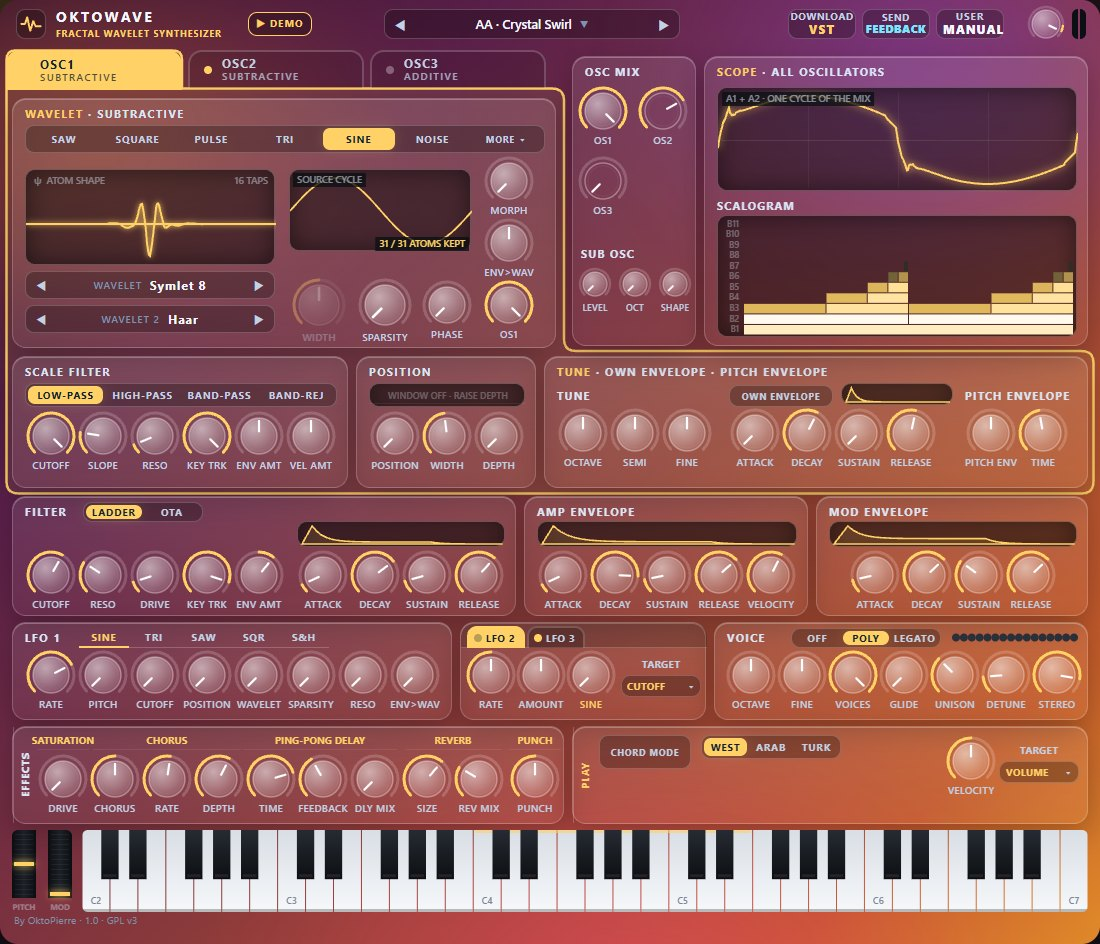
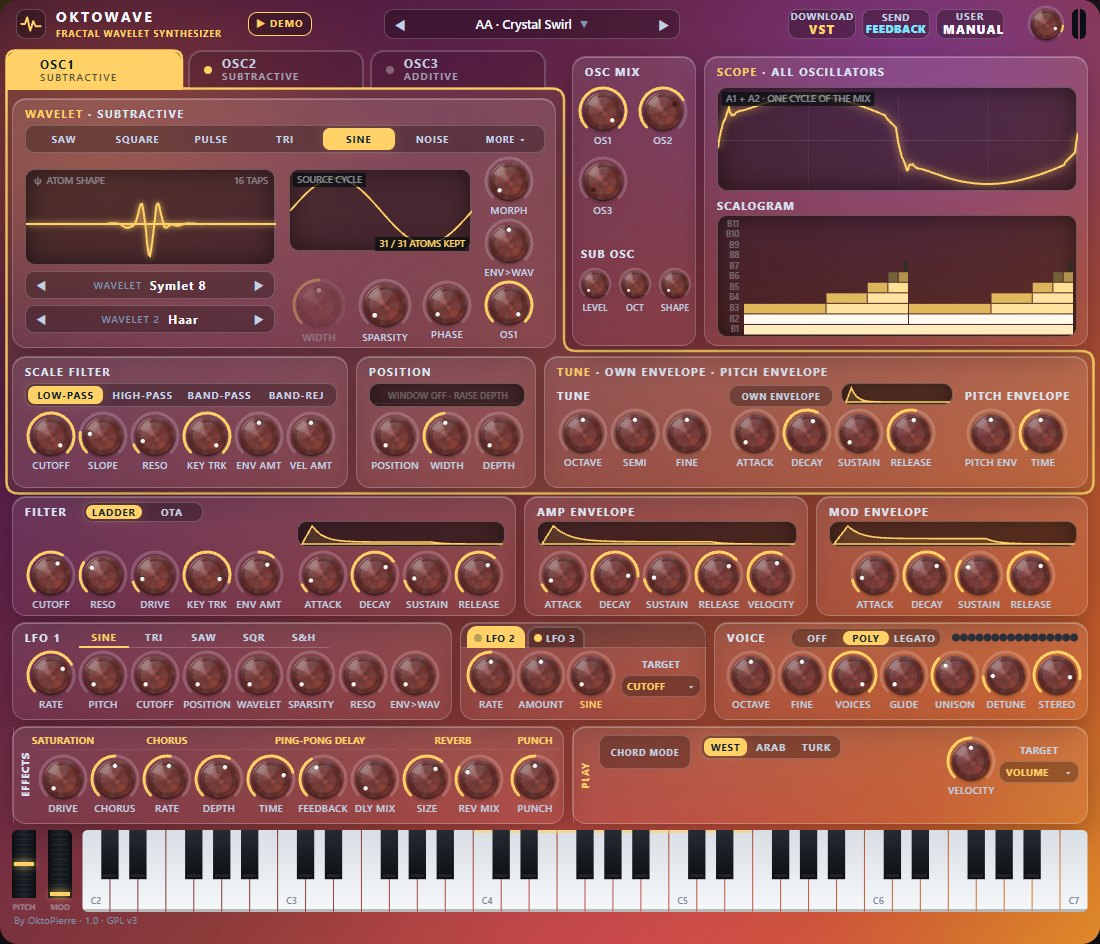
OktoWave 1.0.18: the copper knob in the web app too (the author's request), test checks that followed the author's Warm Pad, release notes: the Checked line
- Web app: web/js/ui.js knob() draws the copper knob of the plug-in (an SVG image of web/img/bouton_cuivre_rose.png under two soft shadows, the white dot at the value, the ring and value arc unchanged); synth.css no longer colours the old knob's parts; the manual's panel picture.
- Tests: filter.js and supermod.js start from A · Warm Pad with the FILTER open (the author's OTA filter at 1395 Hz softened what they measure); vst2_smoke: the G7 chord is 1.25 times the single note's level (1.41 with the new Warm Pad); test_web: the HIGH_CPU sound the author moved to SuperModulation, the plug-in's OS1 OS2 OS3 knobs are levels the web app shows with its own knobs.
- RELEASE_HISTORY: the copper knob in both, the Checked line; README; CLAUDE.md 3.3zb.

diff --git a/web/js/ui.js b/web/js/ui.js
@@ -192,15 +192,27 @@ class SynthUI {
     const s = svg('svg', { width: w.w, height: w.h }, box);
     const id = 'kg' + i + w.type;
     const defs = svg('defs', {}, s);
-    const grad = svg('radialGradient', { id, cx: '35%', cy: '30%', r: '75%' }, defs);
-    svg('stop', { offset: '0%', 'stop-color': '#3a414c' }, grad);
-    svg('stop', { offset: '100%', 'stop-color': '#161a1f' }, grad);
-    const thin = small || tiny, A0 = -0.75 * Math.PI, A1 = 0.75 * Math.PI, ar = r + (thin ? 2 : 4);
-    svg('path', { d: arcPath(cx, cy, ar, A0, A1), stroke: '#2a303a', 'stroke-width': thin ? 2.5 : 3, fill: 'none', 'stroke-linecap': 'round' }, s);
-    const val = svg('path', { d: '', stroke: 'var(--accent)', 'stroke-width': thin ? 2.5 : 3, fill: 'none', 'stroke-linecap': 'round' }, s);
-    svg('circle', { cx, cy, r: r - 1, fill: `url(#${id})`, stroke: '#0b0d10', 'stroke-width': 1.5 }, s);
-    svg('circle', { cx, cy, r: r - 4, fill: 'none', stroke: 'rgba(255,255,255,0.05)', 'stroke-width': 1 }, s);
-    const ptr = svg('line', { x1: cx, y1: cy - r * 0.25, x2: cx, y2: cy - r + 4, stroke: '#eef2f7', 'stroke-width': big ? 2.6 : tiny ? 2 : 2.2, 'stroke-linecap': 'round' }, s);
+    // version 1.0.18 (the owner's choice, ClaudeProjects/maquettes_boutons_cuivre, "couleur 1, cuivre rosé"; the plug-in draws the same knob, vst/src/editor.cpp): the knob is the
+    // picture img/bouton_cuivre_rose.png (knurled turned metal, a disc of radius 74.3 px in 156 px) with two soft shadows under it, lit from a fixed side (the picture does not
+    // turn); the white dot (0.12 r, at 0.696 r from the centre) shows the value, with a small shadow above it. The ring and the value arc are those of before.
+    const thin = small || tiny, A0 = -0.75 * Math.PI, A1 = 0.75 * Math.PI, ar = r + (thin ? 2 : 4), sw = thin ? 2.5 : 3;
+    const f = svg('filter', { id: id + 's', x: '-60%', y: '-60%', width: '220%', height: '220%', 'color-interpolation-filters': 'sRGB' }, defs);
+    [[2.2, 2.0, 0.35, 'b'], [0.8, 0.7, 0.55, 'a']].forEach(([dy, blur, op, k]) => {   // [vertical offset, blur, opacity]: a soft shadow and a tight contact shadow
+      svg('feGaussianBlur', { in: 'SourceAlpha', stdDeviation: blur, result: 'g' + k }, f);
+      svg('feOffset', { in: 'g' + k, dx: 0, dy, result: 'o' + k }, f);
+      svg('feFuncA', { type: 'linear', slope: op }, svg('feComponentTransfer', { in: 'o' + k, result: 's' + k }, f));
+    });
+    const fm = svg('feMerge', {}, f);
+    for (const m of ['sb', 'sa', 'SourceGraphic']) svg('feMergeNode', { in: m }, fm);
+    svg('path', { d: arcPath(cx, cy, ar, A0, A1), style: `stroke: rgba(255,255,255,0.18); stroke-width: ${sw}; fill: none; stroke-linecap: round` }, s);
+    const val = svg('path', { d: '', style: `stroke: var(--accent); stroke-width: ${sw}; fill: none; stroke-linecap: round` }, s);
+    const sz = r * 156 / 74.3;   // the picture is 2.0996 knob radii wide
+    svg('image', { href: 'img/bouton_cuivre_rose.png', x: cx - sz / 2, y: cy - sz / 2, width: sz, height: sz }, svg('g', { filter: `url(#${id}s)` }, s));
+    const dg = svg('radialGradient', { id: id + 'd', cx: '42%', cy: '38%', r: '62%' }, defs);
+    for (const [o, c] of [['0%', '#ffffff'], ['60%', '#f3f1f0'], ['100%', '#cfcac8']]) svg('stop', { offset: o, style: 'stop-color: ' + c }, dg);
+    const dotR = r * 0.12, dotD = r * 0.696;
+    const dotSh = svg('circle', { r: dotR * 1.1, style: 'fill: rgba(35,12,6,0.55); stroke: none' }, s);
+    const dot = svg('circle', { r: dotR, style: `fill: url(#${id}d); stroke: none` }, s);
     let label = null;
     if (!small) {
       label = el('div', 'label', box, { top: (big ? 48 : tiny ? 33 : 43) + 'px', fontSize: tiny ? '8.5px' : '' });
@@ -214,7 +226,9 @@ class SynthUI {
         const a = A0 + (A1 - A0) * n;
         const from = bip ? A0 + (A1 - A0) * this.C.toNorm(p, 0) : A0;
         val.setAttribute('d', arcPath(cx, cy, ar, Math.min(from, a), Math.max(from, a)));
-        ptr.setAttribute('transform', `rotate(${(a * 180 / Math.PI).toFixed(2)} ${cx} ${cy})`);
+        const dx = cx + dotD * Math.sin(a), dy = cy - dotD * Math.cos(a);
+        dot.setAttribute('cx', dx.toFixed(2)); dot.setAttribute('cy', dy.toFixed(2));
+        dotSh.setAttribute('cx', dx.toFixed(2)); dotSh.setAttribute('cy', (dy - dotR * 0.28).toFixed(2));
         if (label) {
           const showVal = widget.hover || widget.drag;
           // style 'value' (beta 0.6): the value is the label (a note value says more than "TIME")

diff --git a/web/css/synth.css b/web/css/synth.css
@@ -111,11 +111,6 @@ button { font-family: inherit; }
 .knob .label { position: absolute; left: -6px; right: -6px; text-align: center; font-size: 9.5px; font-weight: 600; letter-spacing: 0.06em;
   color: var(--dim); white-space: nowrap; overflow: hidden; }
 .knob.active .label, .knob:hover .label { color: var(--text); }
-.knob svg stop:first-child { stop-color: rgba(255,255,255,0.55); }
-.knob svg stop:last-child { stop-color: rgba(255,255,255,0.12); }
-.knob svg path:first-of-type { stroke: rgba(255,255,255,0.18); }
-.knob svg circle:first-of-type { stroke: rgba(255,255,255,0.35); }
-.knob svg line { stroke: #ffffff; }
 .knob .label.value { color: var(--accent); }
 .knob.disabled { opacity: 0.35; }
 .knobS .label { display: none; }

diff --git a/RELEASE_HISTORY.md b/RELEASE_HISTORY.md
@@ -6,14 +6,14 @@ the chord keyboard of his WaveChord work; their histories follow its own first r
 ## Okto Fractal Wavelet 1.0.18 — 2026-10-24 (shown as OktoWave 1.0)
 
 - **VINTAGE** (plug-in): one knob that ages the instrument like an analog polyphonic synthesizer of the 70s and 80s. Each voice is a little out of tune in its own way and pulled at each note, the pitch drifts slowly and wobbles (a wow), the tone gets darker and warmer, the filters and levels of the voices differ a little, and the oscillators start anywhere in their cycle. At 0 % (the default) the sound is exactly the one of before. **TYPE** chooses the kind of age: **FIX** (the fixed differences between the voices, nothing moves), **BOTH** (the default) or **DRIFT** (the moving drift only). Both are playing settings, like VELOCITY: they stay when you change preset, so every sound can be aged, and they are kept with your project.
-- **Copper knobs** (plug-in): every knob is now a turned-metal knob in rosy copper, with a soft shadow and a white dot, sharp at every window size.
+- **Copper knobs** (web app and plug-in): every knob is now a turned-metal knob in rosy copper, with a soft shadow and a white dot, sharp at every size.
 - **A tidier panel** (web app and plug-in): the levels of OSC MIX are named **OS1 OS2 OS3**, as the tabs OSC1 OSC2 OSC3; in the plug-in the card is titled **MIX** and **VINTAGE**. In the subtractive oscillator's card, WIDTH, SPARSITY, PHASE and the level are on one row and the SOURCE CYCLE picture is wider.
 - **The author's latest settings**: *A · Warm Pad* (OTA filter, a softer punch) and *AA · Crystal Swirl* (16 voices); TOP Sounds in his new order, and the synth now opens on *AA · Crystal Swirl*.
 - **MIDI in the web app**: when a keyboard does not play, the MIDI status now says what to do (open the page in Chrome or Edge rather than in an editor's built-in browser, allow MIDI devices in the site settings, or close the program that holds the keyboard).
 
 **Details**
 - *VINTAGE* (`v_vintage`, `v_vchar`, appended after PUNCH; `vst/src/dsp.h`): per voice and oscillator a fixed offset from the voice's "card" (the same voice always the same), a pull at each note, a slow drift and a fast jitter that go on from note to note, a wow of the whole instrument (0.7 Hz), the SCALE FILTER one band darker, the DRIVE at least 30 % of VINTAGE, the voices' FILTER cutoffs and levels a little apart. Drawn from fixed seeds: the same notes play the same samples every time. VINTAGE 0 is the code of before, sample for sample. The web app has no VINTAGE (the C++ engine only).
-- *The copper knob* (`vst/src/editor.cpp`, `tools/knob_image.js` → `vst/src/generated/knob_image.h`): one picture of the knob, resampled to each knob's size in screen pixels with its shadows; the white dot shows the value. The web app keeps its knobs.
+- *The copper knob*: one picture of the knob (`web/img/bouton_cuivre_rose.png`), the white dot shows the value. The web app draws it in SVG with two soft shadows (`web/js/ui.js`); the plug-in resamples it to each knob's size in screen pixels with its shadows (`vst/src/editor.cpp`, `tools/knob_image.js` → `vst/src/generated/knob_image.h`).
 - *The presets*: the author's presets file of 2026-10-24 (`tools/owner_presets4.js`); the web-only PUNCH of *A · Warm Pad* of 1.0.17 is gone (his own is lower now). A player's own lists, kept in his presets file, stay as he arranged them ("LIST ORDER v8").
 
 **Checked**: (filled in at release)

diff --git a/CLAUDE.md b/CLAUDE.md
@@ -431,7 +431,7 @@ The CPU load of a chord was measured and cut by about 35-40 % (167 presets, chor
 
 ### 3.3zb VERSION 1.0.18 (2026-10-24): VINTAGE, the copper knob, OS1 OS2 OS3, the subtractive card's aligned row, the owner's presets file of 2026-10-24
 - **VINTAGE** (the owner's spec `ClaudeProjects/OKTOWAVE_VINTAGE_SPEC.md`; `v_vintage` AMOUNT and `v_vchar` TYPE FIX / BOTH / DRIFT, appended after `fx_punch`, perf like VELOCITY; C++ only: `dsp.h`, the web app forces 0 in `app.js` finalValues and core.js has no VINTAGE): voice cards `vOff` / `vTrk` / `vFc` / `vLv` drawn from `VINT_SEED`, a pull per note (`vOn`), a slow OU drift and a jitter that go on from note to note and start warm, a wow (`lfoTick`, 0.7 Hz), the SCALE FILTER cutoff `-VINT_DARK` band, DRIVE ≥ `VINT_WARM` × vintage, free phases on an idle voice. VINTAGE 0 = the code of before, bit for bit (the C++/JS cross-check); `vst/devtest/vintage_test.cpp` measures it (100 % BOTH about 13 cents rms). The test switch PHASE FREE / RESET of the test builds was dropped before release (never published).
-- **Copper knob** (plug-in only; the owner's choice in `ClaudeProjects/maquettes_boutons_cuivre`, colour 1): `tools/knob_image.js` turns `web/img/bouton_cuivre_rose.png` into `vst/src/generated/knob_image.h`; `editor.cpp` `knobSprite` resamples it to the knob's size in screen pixels (supersampled, two erfc shadows, premultiplied on macOS, straight on Windows; cached per size) and `drawKnob` draws it 1:1 with `Canvas::pixels`, then the white dot. The ring and the value arc are those of before.
+- **Copper knob** (the owner's choice in `ClaudeProjects/maquettes_boutons_cuivre`, colour 1, style 1): web `ui.js` knob() = an SVG `<image>` of `web/img/bouton_cuivre_rose.png` (2.0996 r wide) under a filter of two shadows, inline styles (synth.css no longer colours the knob's parts), the white dot two circles moved in update(); plug-in: `tools/knob_image.js` turns `web/img/bouton_cuivre_rose.png` into `vst/src/generated/knob_image.h`; `editor.cpp` `knobSprite` resamples it to the knob's size in screen pixels (supersampled, two erfc shadows, premultiplied on macOS, straight on Windows; cached per size) and `drawKnob` draws it 1:1 with `Canvas::pixels`, then the white dot. The ring and the value arc are those of before.
 - **Layout**: the level knobs' short names OS1 OS2 OS3; the plug-in's OSC MIX = knobT OS1 OS2 OS3 at the left, AMOUNT and TYPE (knobT) level with OS1 and OS2 under the titles MIX and VINTAGE (`editor.cpp`); the subtractive card (compactPanel): SOURCE WIDTH, SPARSITY, SOURCE PHASE, LEVEL centred on y 206, the SOURCE CYCLE picture 182 px wide.
 - **Presets**: `tools/owner_presets4.js` (his file VSTClaude/new.txt) after owner_presets3 (`applyOwnerFile`): Warm Pad, Crystal Swirl, TOP Sounds order (`DEFAULT_PRESET` AA · Crystal Swirl); `WEB_EDITS` empty. LIST ORDER stays v8.
 

diff --git a/README.md b/README.md
@@ -34,7 +34,7 @@ from version 1.0.6 the macOS plug-in is built and tested on GitHub's Macs and re
 ## What version 1.0.18 changes (OktoWave 1.0)
 
 - **VINTAGE** (plug-in): one knob that ages the instrument like an analog polyphonic synthesizer of the 70s and 80s: each voice a little out of tune in its own way, a slow drift and a wow of the pitch, a darker and warmer tone, voices a little different. 0 % (the default) is the clean sound of before. **TYPE**: **FIX** (fixed differences only), **BOTH** or **DRIFT** (the moving drift only). It stays when you change preset, so every sound can be aged.
-- **Copper knobs** (plug-in): every knob is a turned-metal knob in rosy copper, sharp at every window size.
+- **Copper knobs** (web app and plug-in): every knob is a turned-metal knob in rosy copper, sharp at every size.
 - **A tidier panel** (web app and plug-in): the OSC MIX levels are named **OS1 OS2 OS3**, as the tabs; in the subtractive oscillator's card WIDTH, SPARSITY, PHASE and the level are on one row.
 - **The author's latest settings** for *A · Warm Pad* and *AA · Crystal Swirl*, TOP Sounds in his new order; the synth opens on *AA · Crystal Swirl*.
 - **MIDI in the web app**: when a keyboard does not play, the MIDI status says what to do.
